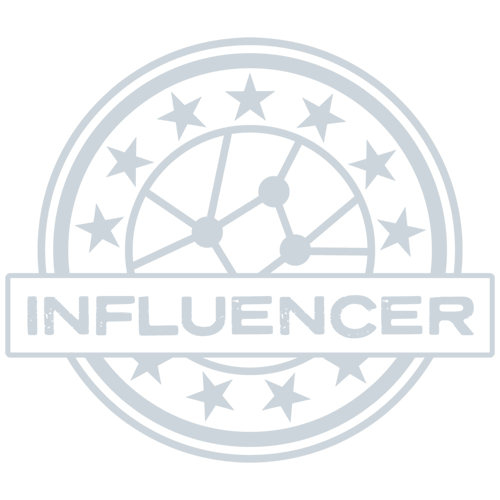
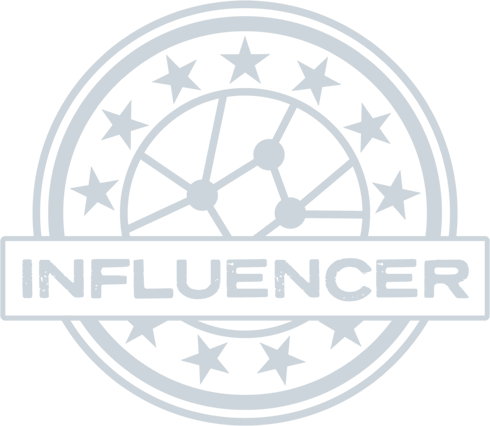
Small html changes

diff --git a/21-fs-ias-lec/FrontEnd/socialgraph/templates/socialgraph/profile_detail.html b/21-fs-ias-lec/FrontEnd/socialgraph/templates/socialgraph/profile_detail.html
@@ -16,8 +16,7 @@
                         </div>
                     </div>
                 </div>
-                <div class="p-2">
-
+                <div class="p-2" style="margin-right: 5px">
                     <div class="row justify-content-center">
                         {% if object.myself %}
                             <button type="button" class="btn btn-primary"
@@ -27,11 +26,19 @@
                             </button>
                         {% endif %}
                     </div>
+
                     <div class="row justify-content-center">
                         {% if object.influencer %}
-                            <img class="account-img" src="/media/InfluencerTransparentGray.png" style="margin-top: 2px; margin-right: 0px; margin-bottom: 0px; width: 95px; height: 95px">
+                            {% if object.myself %}
+                                <img class="account-img" src="/media/InfluencerTransparentGray.png"
+                                     style="margin-top: 10px; margin-right: 0px; margin-bottom: 0px; width: 95px; height: 83px">
+                            {% else %}
+                                <img class="account-img" src="/media/InfluencerTransparentGray.png"
+                                     style="margin-top: 0px; margin-right: 0px; margin-bottom: 0px; width: 95px; height: 83px">
+                            {% endif %}
                         {% endif %}
                     </div>
+
                 </div>
             </div>
 
